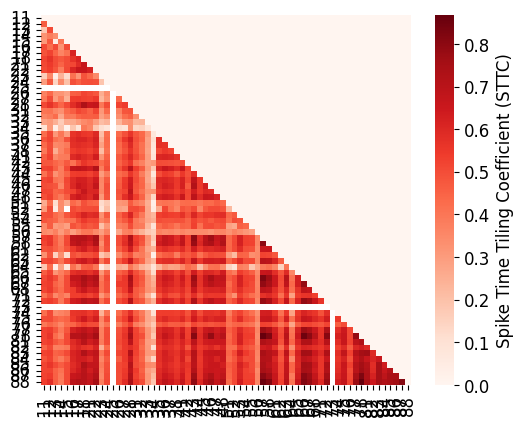
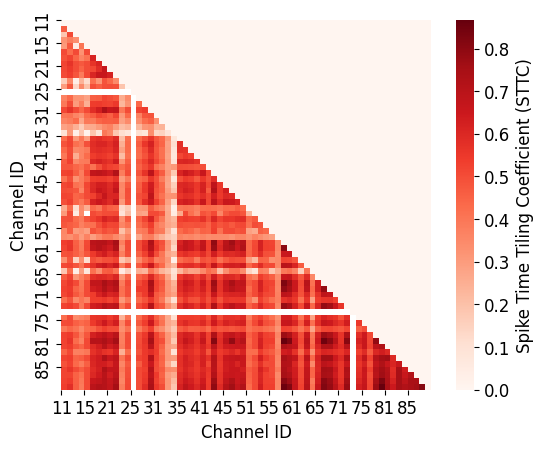
Updated

diff --git a/_site/portfolio/Spike Time Tiling Coefficient/index.html b/_site/portfolio/Spike Time Tiling Coefficient/index.html
@@ -722,9 +722,12 @@ The above produces the following:
             <span class="n">yticklabels</span><span class="o">=</span><span class="n">channel_ids</span><span class="p">,</span> <span class="n">xticklabels</span><span class="o">=</span><span class="n">channel_ids</span><span class="p">,</span>
             <span class="n">cmap</span><span class="o">=</span><span class="n">sns</span><span class="p">.</span><span class="n">color_palette</span><span class="p">(</span><span class="s">"Reds"</span><span class="p">,</span><span class="n">as_cmap</span><span class="o">=</span><span class="bp">True</span><span class="p">),</span> <span class="n">cbar</span><span class="o">=</span><span class="bp">True</span><span class="p">,</span>
             <span class="n">cbar_kws</span><span class="o">=</span><span class="p">{</span><span class="s">'label'</span><span class="p">:</span> <span class="s">'Spike Time Tiling Coefficient (STTC)'</span><span class="p">},</span>
-            <span class="n">square</span><span class="o">=</span><span class="bp">True</span><span class="p">)</span>
-<span class="c1"># To do: Fix X-tick label spacing to be every 8th
-</span></code></pre></div></div>
+            <span class="n">square</span><span class="o">=</span><span class="bp">True</span><span class="p">);</span>
+<span class="n">plt</span><span class="p">.</span><span class="n">xticks</span><span class="p">(</span><span class="nb">range</span><span class="p">(</span><span class="mi">0</span><span class="p">,</span> <span class="nb">len</span><span class="p">(</span><span class="n">channel_ids</span><span class="p">),</span> <span class="mi">4</span><span class="p">),</span> <span class="n">channel_ids</span><span class="p">[::</span><span class="mi">4</span><span class="p">]);</span>
+<span class="n">plt</span><span class="p">.</span><span class="n">yticks</span><span class="p">(</span><span class="nb">range</span><span class="p">(</span><span class="mi">0</span><span class="p">,</span> <span class="nb">len</span><span class="p">(</span><span class="n">channel_ids</span><span class="p">),</span> <span class="mi">4</span><span class="p">),</span> <span class="n">channel_ids</span><span class="p">[::</span><span class="mi">4</span><span class="p">]);</span>
+<span class="n">plt</span><span class="p">.</span><span class="n">xlabel</span><span class="p">(</span><span class="s">"Channel ID"</span><span class="p">)</span>
+<span class="n">plt</span><span class="p">.</span><span class="n">ylabel</span><span class="p">(</span><span class="s">"Channel ID"</span><span class="p">)</span>
+</code></pre></div></div>
 
 <p><img src="../STTC_demo_files/STTC_demo_27_0.png" alt="png" /></p>
 

diff --git a/_site/posts/2023/09/What-is-a-PhD-like/index.html b/_site/posts/2023/09/What-is-a-PhD-like/index.html
@@ -294,7 +294,7 @@
 
 <p>I recently read a post on /r/datascience that raised the question: <code class="language-plaintext highlighter-rouge">why so many people with PhDs think that's an easy pass for data science?</code></p>
 
-<p>Inintially, I found this question rather puzzling. The notion of a “PhD”, and as an “easy pass” is contradictory. Obtaining a PhD is anything but easy; it  often constitutes the most formidable intellectual challenge a person has to rise up to in their lifetime. Perhaps that is one source of confusion. So for now, I will attempt to describe <code class="language-plaintext highlighter-rouge">what does a PhD really require</code> and I will be focusing on a STEM degree (although I believe this can be applied to some non-STEM programs).</p>
+<p>Initially, I found this question rather puzzling. The notion of a “PhD”, and as an “easy pass” is contradictory. Obtaining a PhD is anything but easy; it  often constitutes the most formidable intellectual challenge a person has to rise up to in their lifetime. Perhaps that is one source of confusion. So for now, I will attempt to describe <code class="language-plaintext highlighter-rouge">what does a PhD really require</code> and I will be focusing on a STEM degree (although I believe this can be applied to some non-STEM programs).</p>
 
 <p>A PhD is also known as a Doctorate in Philosophy degree. In most fields, it is the highest academic degree a person can achieve. It typically is the result of several years of research and study in a very narrow and technical domain of knowledge. It culminates as a substantial novel contribution to scientific knowledge (e.g., increasing understanding, developing new technologies, shifting paradigms, etc.)</p>
 
